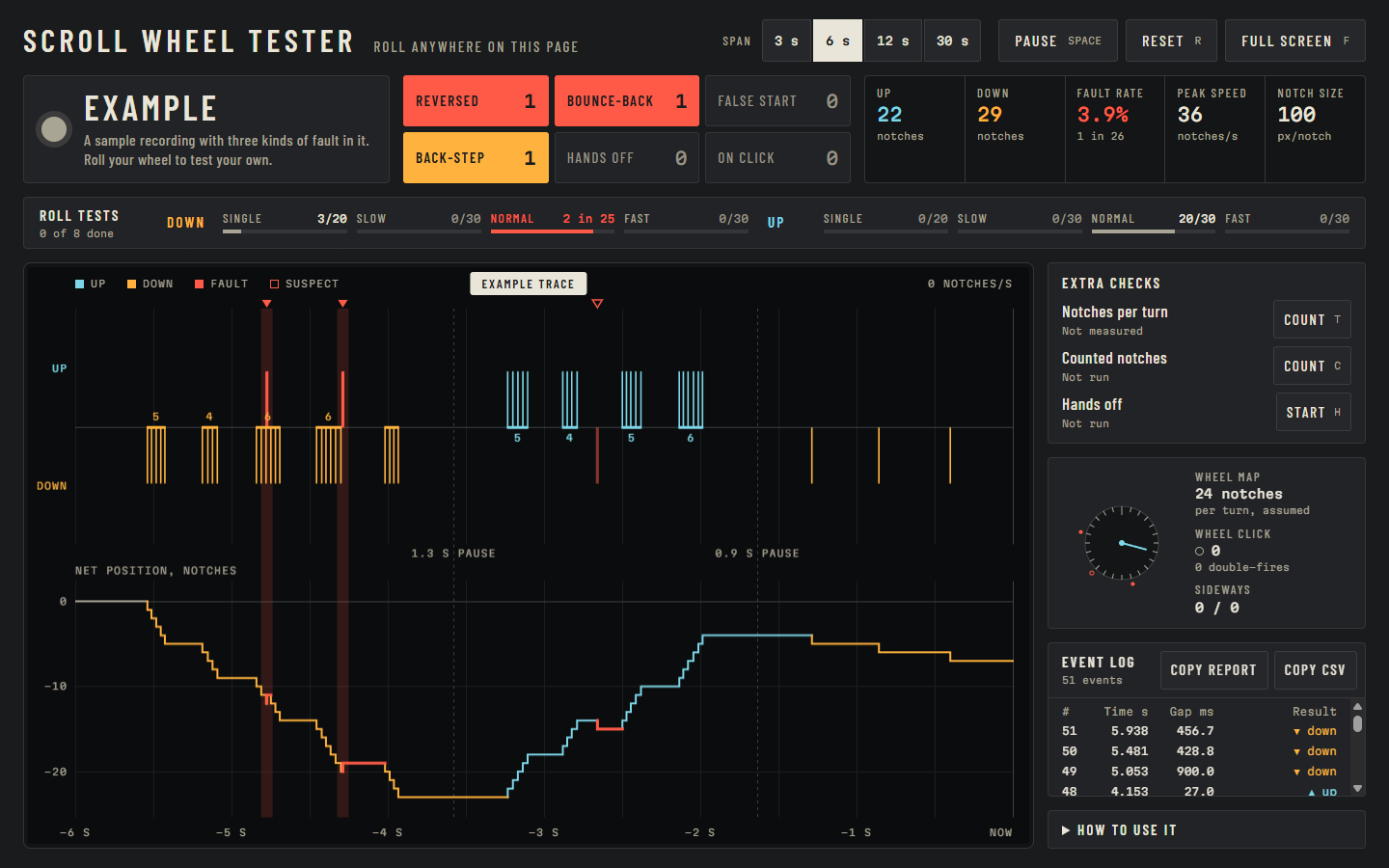
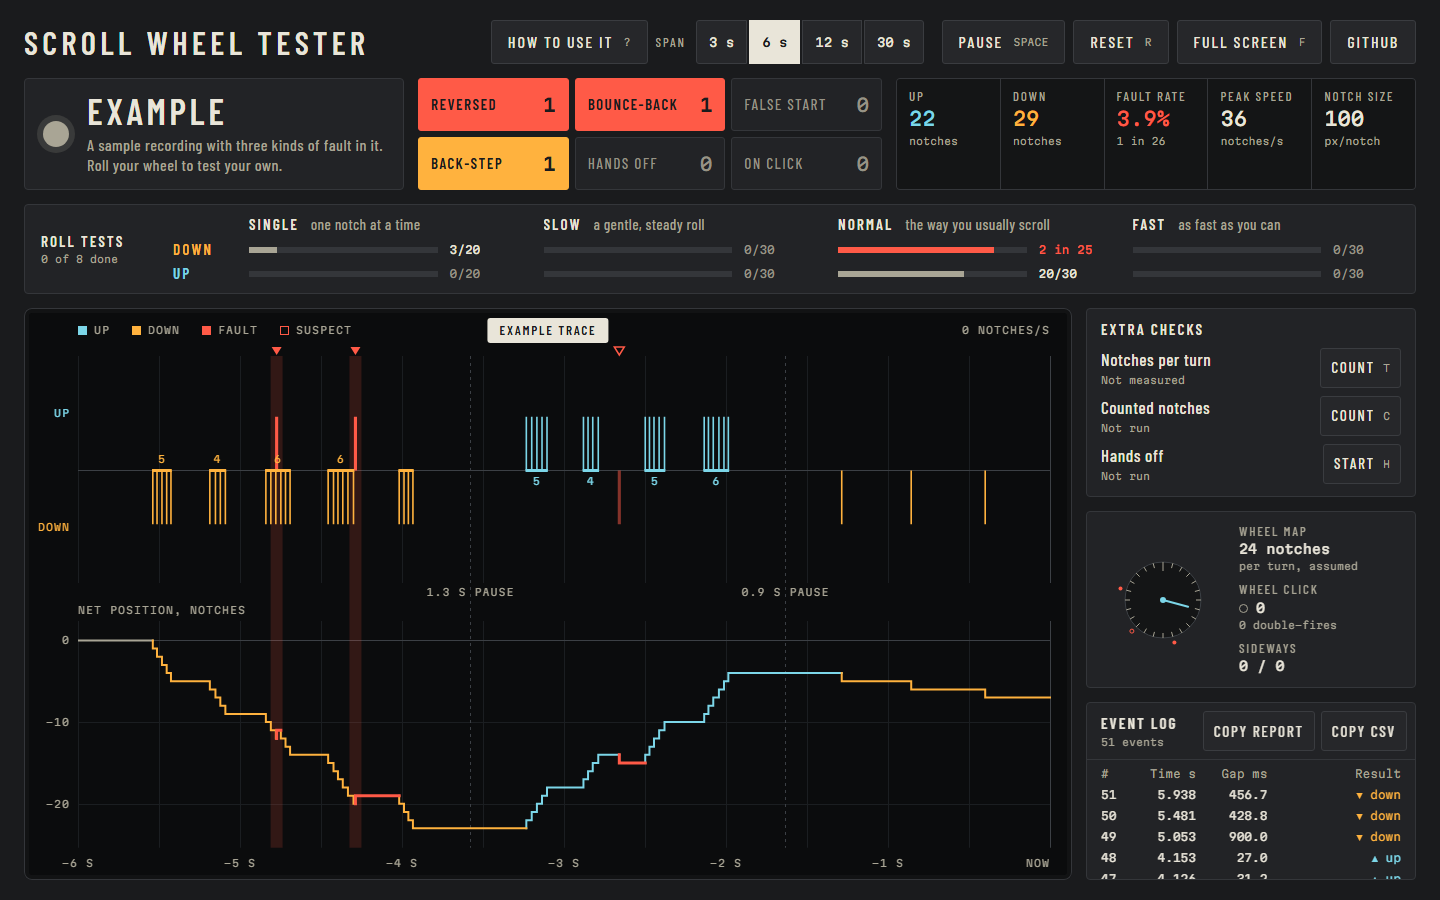
Update the README and screenshot, tidy the guide footer

diff --git a/index.html b/index.html
@@ -233,7 +233,7 @@ dialog.help[open] { display: flex; flex-direction: column }
 .help-body kbd { display: inline-block; padding: 3px 6px; border: 1px solid var(--key-line); border-radius: 2px; color: var(--fg) }
 .help-body kbd + kbd { margin-left: 4px }
 .help-foot { flex: none; padding: 14px 28px; border-top: 1px solid var(--line); color: var(--muted) }
-.help-foot a { color: var(--accent) }
+.help-foot a { color: var(--accent); white-space: nowrap }
 /* three columns only on a screen big enough to show the whole guide at once (a 1440p monitor);
    otherwise one column, so nobody has to scroll down one column and back up for the next */
 @media (min-width: 1900px) and (min-height: 1150px) {
@@ -480,7 +480,7 @@ dialog.help[open] { display: flex; flex-direction: column }
       </table>
     </section>
   </div>
-  <div class="help-foot">The full guide, the source and a place to report problems: <a href="https://github.com/SirSnipesalot/scroll-wheel-tester" target="_blank" rel="noopener">github.com/SirSnipesalot/scroll-wheel-tester</a></div>
+  <div class="help-foot">Full guide, source code and bug reports: <a href="https://github.com/SirSnipesalot/scroll-wheel-tester" target="_blank" rel="noopener">github.com/SirSnipesalot/scroll-wheel-tester</a></div>
 </dialog>
 
 <dialog id="csv-dialog" aria-labelledby="csv-title">

diff --git a/README.md b/README.md
@@ -33,7 +33,7 @@ Put the pointer anywhere on the page and roll. The page itself will not scroll, 
 
 ### 2. Do the eight roll tests
 
-The strip labelled **ROLL TESTS**, just above the chart, is the actual test. It has eight boxes: four ways of rolling the wheel, each done downwards (**DOWN**) and upwards (**UP**).
+The grid labelled **ROLL TESTS**, just above the chart, is the actual test. It has eight boxes: four ways of rolling the wheel across the top, each done downwards (the **DOWN** row) and upwards (the **UP** row).
 
 | Box | What to do | How much |
 | --- | --- | --- |
@@ -115,7 +115,7 @@ If the fault is still there after all that, it is the mouse. Under warranty, sen
 - **Wheel click** counts presses of the wheel button. A "double-fire" is a second press that arrives too soon after the first to be you, which points to a worn button.
 - **Sideways** counts left and right signals, if your wheel tilts.
 - **Event log.** Every signal, newest first.
-- **Span** sets how many seconds of rolling fit across the chart. **Pause** stops recording and gives the wheel back to the page. **Reset** clears the recording. **Full screen** does what it says.
+- **How to use it** opens a short version of this guide on the page. **Span** sets how many seconds of rolling fit across the chart. **Pause** stops recording and gives the wheel back to the page. **Reset** clears the recording. **Full screen** does what it says. **GitHub** brings you back here.
 
 ## Keyboard shortcuts
 
@@ -129,6 +129,7 @@ If the fault is still there after all that, it is the mouse. Under warranty, sen
 | `T` | Start the Notches per turn check |
 | `Enter` | Finish the check that is running |
 | `Esc` | Cancel the check that is running |
+| `?` | Open the on-page guide |
 
 ## Troubleshooting
 
@@ -151,7 +152,7 @@ In Chrome or Edge, use the install button in the address bar. The tester then op
 - **How it tells a fault from your finger.** A healthy wheel only ever sends notches in the direction you are rolling. The tester treats a notch as a certain fault when it flips direction within 60 milliseconds, which is faster than a finger can turn a wheel back.
 - **It only sees what your browser sees.** In a fast flick the browser can merge a stray notch into the real ones, so some faults hide at high speed. That is why the Single and Slow roll tests matter most.
 - **A clean result is not a guarantee.** A fault that shows up once an hour can miss a two-minute test. If the mouse still misbehaves, test again for longer.
-- **It is new.** So far its fault detection has been checked with simulated wheel signals, not a collection of known-faulty mice. If it gets your mouse wrong, please open an issue and paste the copied report.
+- **It has been run on a real faulty wheel.** It was tested on a Razer DeathAdder V3 Pro with a failing scroll wheel. (That wheel got rolled so much during testing that it started behaving again.) It has not been tried on many other mice yet, so if it gets yours wrong, please open an issue and paste the copied report.
 
 ## For developers
 
